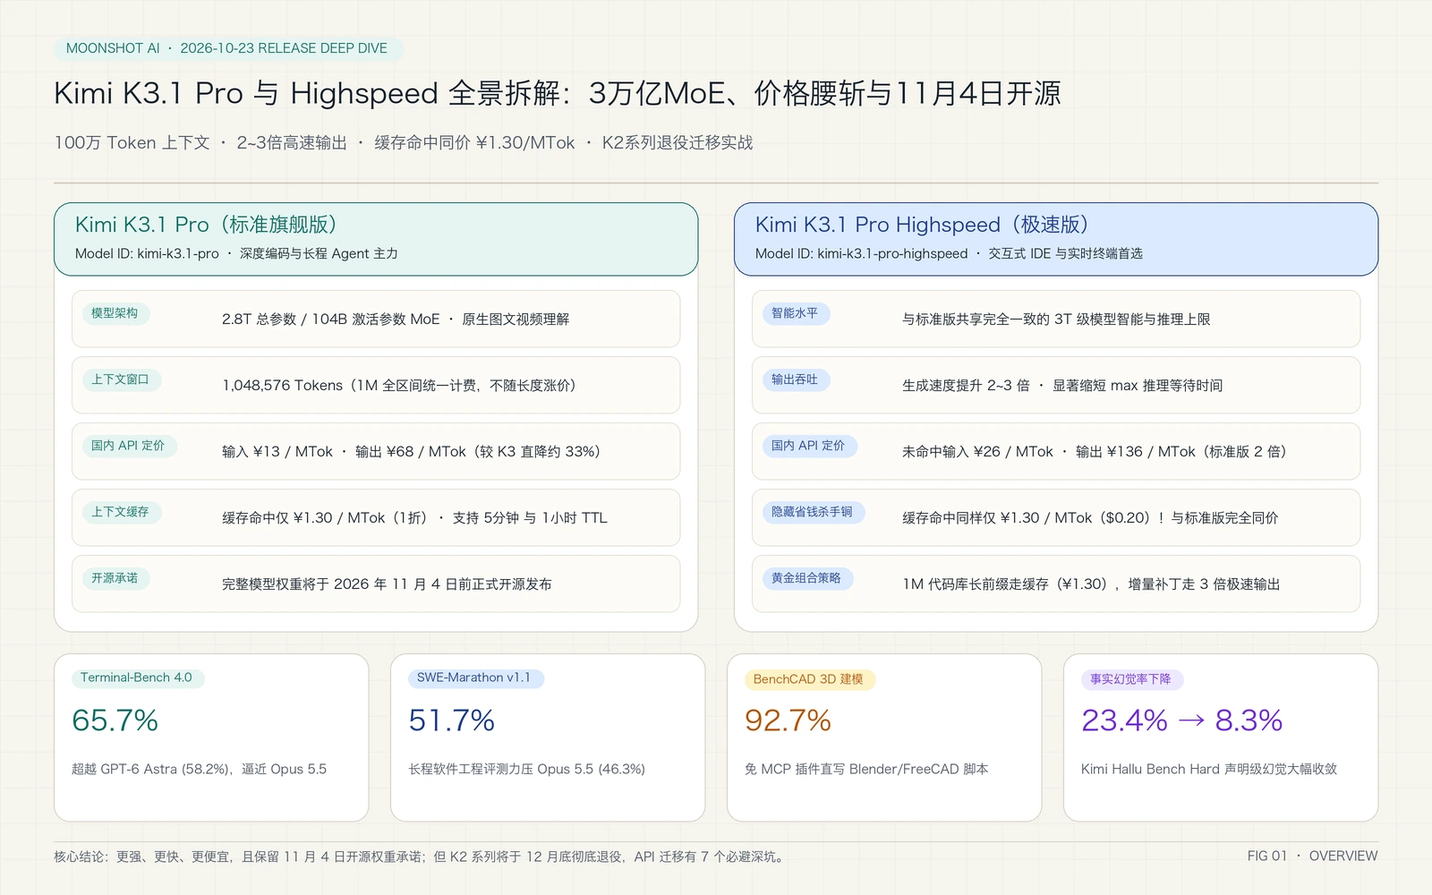
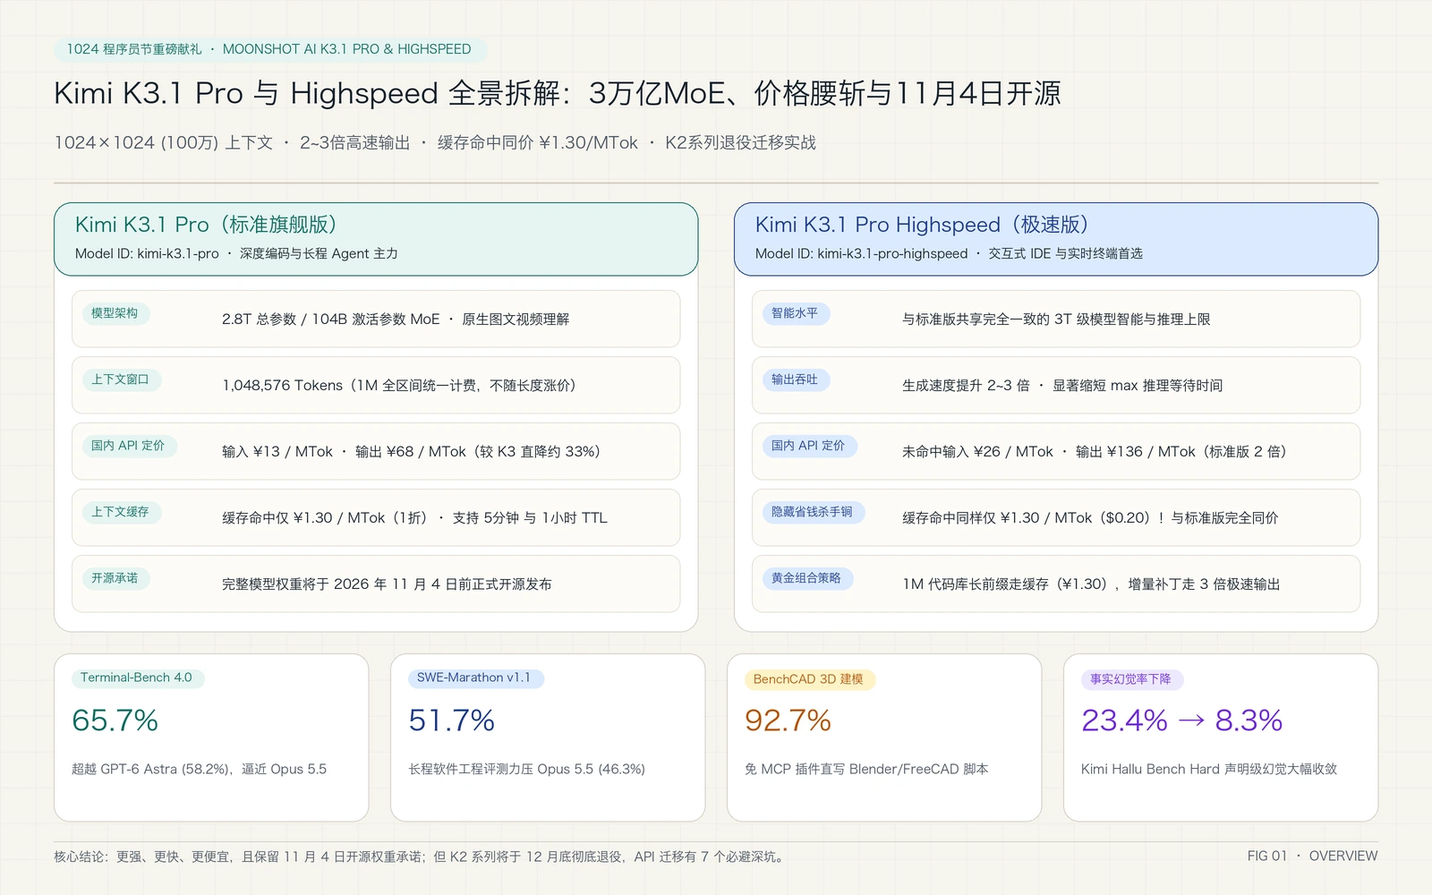
Deploy Hugo site (2026-10-23T23:44:06Z)

Changed region(s): [[0.0625, 0.155, 0.5625, 0.186], [0.0312, 0.031, 0.3438, 0.062]]

diff --git a/en/post/kimi-k3-1-pro-highspeed-open-weights-and-migration-guide/index.html b/en/post/kimi-k3-1-pro-highspeed-open-weights-and-migration-guide/index.html
@@ -3,17 +3,17 @@
 <head>
     <meta charset="utf-8">
     <meta name="viewport" content="width=device-width, initial-scale=1">
-    <title>Kimi K3.1 Pro &amp; Highspeed Unleashed: 3T MoE at a 35% Price Cut, and Why Moonshot Scrubbed 9.5% of Its Cyber Exploit Power Before Open-Sourcing - Margrop Blog</title>
-<meta name="description" content="Late on October 23, 2026, Moonshot AI skipped the theatrics of a livestream countdown and quietly shipped the first model in its new K3.1 generation: kimi-k3.1-pro, a 3-trillion-parameter-class …">
+    <title>A 1024 Programmer&#39;s Day Gift! Kimi K3.1 Pro &amp; Highspeed Unleashed: 3T MoE at a 35% Price Cut, and Why Moonshot Scrubbed 9.5% of Its Cyber Exploit Power - Margrop Blog</title>
+<meta name="description" content="Today is October 24, 2026 — celebrated across the tech world as 1024 Programmer’s Day (since $2^{10} = 1024$, the fundamental binary building block of computing). Right before midnight on the eve of …">
 <meta name="robots" content="index, follow">
 <link rel="canonical" href="https://blog.margrop.net/en/post/kimi-k3-1-pro-highspeed-open-weights-and-migration-guide/"><meta property="og:site_name" content="Margrop Blog">
-<meta property="og:title" content="Kimi K3.1 Pro &amp; Highspeed Unleashed: 3T MoE at a 35% Price Cut, and Why Moonshot Scrubbed 9.5% of Its Cyber Exploit Power Before Open-Sourcing - Margrop Blog">
-<meta property="og:description" content="Late on October 23, 2026, Moonshot AI skipped the theatrics of a livestream countdown and quietly shipped the first model in its new K3.1 generation: kimi-k3.1-pro, a 3-trillion-parameter-class …">
+<meta property="og:title" content="A 1024 Programmer&#39;s Day Gift! Kimi K3.1 Pro &amp; Highspeed Unleashed: 3T MoE at a 35% Price Cut, and Why Moonshot Scrubbed 9.5% of Its Cyber Exploit Power - Margrop Blog">
+<meta property="og:description" content="Today is October 24, 2026 — celebrated across the tech world as 1024 Programmer’s Day (since $2^{10} = 1024$, the fundamental binary building block of computing). Right before midnight on the eve of …">
 <meta property="og:url" content="https://blog.margrop.net/en/post/kimi-k3-1-pro-highspeed-open-weights-and-migration-guide/">
 <meta property="og:locale" content="en_US"><meta property="og:type" content="article"><meta property="og:locale:alternate" content="zh_CN"><meta property="og:image" content="https://blog.margrop.net/images/og-default.png"><meta name="twitter:card" content="summary_large_image">
-<meta name="twitter:title" content="Kimi K3.1 Pro &amp; Highspeed Unleashed: 3T MoE at a 35% Price Cut, and Why Moonshot Scrubbed 9.5% of Its Cyber Exploit Power Before Open-Sourcing - Margrop Blog">
-<meta name="twitter:description" content="Late on October 23, 2026, Moonshot AI skipped the theatrics of a livestream countdown and quietly shipped the first model in its new K3.1 generation: kimi-k3.1-pro, a 3-trillion-parameter-class …"><meta name="twitter:image" content="https://blog.margrop.net/images/og-default.png"><link rel="alternate" hreflang="zh-CN" href="https://blog.margrop.net/post/kimi-k3-1-pro-highspeed-open-weights-and-migration-guide/"><link rel="alternate" hreflang="en-US" href="https://blog.margrop.net/en/post/kimi-k3-1-pro-highspeed-open-weights-and-migration-guide/"><link rel="alternate" hreflang="x-default" href="https://blog.margrop.net/"><meta property="article:published_time" content="2026-10-24T07:00:00&#43;08:00">
-<meta property="article:modified_time" content="2026-10-24T07:00:00&#43;08:00"><meta property="article:tag" content="AI"><meta property="article:tag" content="大模型"><meta property="article:tag" content="LLM"><meta property="article:tag" content="Kimi"><meta property="article:tag" content="月之暗面"><meta property="article:tag" content="Moonshot AI"><meta property="article:tag" content="Kimi-K3.1-Pro"><meta property="article:tag" content="推理模型"><meta property="article:tag" content="Reasoning Model"><meta property="article:tag" content="智能体"><meta property="article:tag" content="Agent"><meta property="article:tag" content="编码模型"><meta property="article:tag" content="Coding Model"><meta property="article:tag" content="开源模型"><meta property="article:tag" content="Open Source"><meta property="article:tag" content="性能评测"><meta property="article:tag" content="Benchmark"><meta property="article:tag" content="自动化"><meta property="article:tag" content="Automation"><meta property="article:tag" content="Windows 11"><meta property="article:tag" content="Ubuntu 26.04"><meta property="article:tag" content="macOS 27"><script type="application/ld+json">{"@context":"https://schema.org","@type":"BlogPosting","author":{"@type":"Person","name":"Margrop"},"dateModified":"2026-10-24T07:00:00+08:00","datePublished":"2026-10-24T07:00:00+08:00","description":"Late on October 23, 2026, Moonshot AI skipped the theatrics of a livestream countdown and quietly shipped the first model in its new K3.1 generation: kimi-k3.1-pro, a 3-trillion-parameter-class …","headline":"Kimi K3.1 Pro \u0026 Highspeed Unleashed: 3T MoE at a 35% Price Cut, and Why Moonshot Scrubbed 9.5% of Its Cyber Exploit Power Before Open-Sourcing","image":"https://blog.margrop.net/images/og-default.png","inLanguage":"en-US","mainEntityOfPage":"https://blog.margrop.net/en/post/kimi-k3-1-pro-highspeed-open-weights-and-migration-guide/","url":"https://blog.margrop.net/en/post/kimi-k3-1-pro-highspeed-open-weights-and-migration-guide/"}</script>
+<meta name="twitter:title" content="A 1024 Programmer&#39;s Day Gift! Kimi K3.1 Pro &amp; Highspeed Unleashed: 3T MoE at a 35% Price Cut, and Why Moonshot Scrubbed 9.5% of Its Cyber Exploit Power - Margrop Blog">
+<meta name="twitter:description" content="Today is October 24, 2026 — celebrated across the tech world as 1024 Programmer’s Day (since $2^{10} = 1024$, the fundamental binary building block of computing). Right before midnight on the eve of …"><meta name="twitter:image" content="https://blog.margrop.net/images/og-default.png"><link rel="alternate" hreflang="zh-CN" href="https://blog.margrop.net/post/kimi-k3-1-pro-highspeed-open-weights-and-migration-guide/"><link rel="alternate" hreflang="en-US" href="https://blog.margrop.net/en/post/kimi-k3-1-pro-highspeed-open-weights-and-migration-guide/"><link rel="alternate" hreflang="x-default" href="https://blog.margrop.net/"><meta property="article:published_time" content="2026-10-24T07:00:00&#43;08:00">
+<meta property="article:modified_time" content="2026-10-24T07:00:00&#43;08:00"><meta property="article:tag" content="AI"><meta property="article:tag" content="大模型"><meta property="article:tag" content="LLM"><meta property="article:tag" content="Kimi"><meta property="article:tag" content="月之暗面"><meta property="article:tag" content="Moonshot AI"><meta property="article:tag" content="Kimi-K3.1-Pro"><meta property="article:tag" content="推理模型"><meta property="article:tag" content="Reasoning Model"><meta property="article:tag" content="智能体"><meta property="article:tag" content="Agent"><meta property="article:tag" content="编码模型"><meta property="article:tag" content="Coding Model"><meta property="article:tag" content="开源模型"><meta property="article:tag" content="Open Source"><meta property="article:tag" content="性能评测"><meta property="article:tag" content="Benchmark"><meta property="article:tag" content="自动化"><meta property="article:tag" content="Automation"><meta property="article:tag" content="Windows 11"><meta property="article:tag" content="Ubuntu 26.04"><meta property="article:tag" content="macOS 27"><script type="application/ld+json">{"@context":"https://schema.org","@type":"BlogPosting","author":{"@type":"Person","name":"Margrop"},"dateModified":"2026-10-24T07:00:00+08:00","datePublished":"2026-10-24T07:00:00+08:00","description":"Today is October 24, 2026 — celebrated across the tech world as 1024 Programmer’s Day (since $2^{10} = 1024$, the fundamental binary building block of computing). Right before midnight on the eve of …","headline":"A 1024 Programmer's Day Gift! Kimi K3.1 Pro \u0026 Highspeed Unleashed: 3T MoE at a 35% Price Cut, and Why Moonshot Scrubbed 9.5% of Its Cyber Exploit Power","image":"https://blog.margrop.net/images/og-default.png","inLanguage":"en-US","mainEntityOfPage":"https://blog.margrop.net/en/post/kimi-k3-1-pro-highspeed-open-weights-and-migration-guide/","url":"https://blog.margrop.net/en/post/kimi-k3-1-pro-highspeed-open-weights-and-migration-guide/"}</script>
     <meta name="baidu-site-verification" content="code-sVFZ8SER59" />
     <script src="/js/theme-toggle.js"></script>
 
@@ -214,7 +214,7 @@
 
     
     <article>
-        <h1>Kimi K3.1 Pro &amp; Highspeed Unleashed: 3T MoE at a 35% Price Cut, and Why Moonshot Scrubbed 9.5% of Its Cyber Exploit Power Before Open-Sourcing</h1>
+        <h1>A 1024 Programmer&#39;s Day Gift! Kimi K3.1 Pro &amp; Highspeed Unleashed: 3T MoE at a 35% Price Cut, and Why Moonshot Scrubbed 9.5% of Its Cyber Exploit Power</h1>
         <div class="meta">
             Published: 2026-10-24
             <span class="meta-separator">·</span>
@@ -271,16 +271,17 @@
 
 
         <div class="content">
-            <p>Late on October 23, 2026, Moonshot AI skipped the theatrics of a livestream countdown and quietly shipped the first model in its new K3.1 generation: <code>kimi-k3.1-pro</code>, a 3-trillion-parameter-class Mixture-of-Experts (MoE) flagship, alongside <code>kimi-k3.1-pro-highspeed</code>, an identical-intelligence turbo tier streaming tokens at 2 to 3 times the speed.</p>
+            <p>Today is October 24, 2026 — celebrated across the tech world as 1024 Programmer&rsquo;s Day (since $2^{10} = 1024$, the fundamental binary building block of computing). Right before midnight on the eve of 1024 Programmer&rsquo;s Day (October 23), Moonshot AI skipped the theatrics of a livestream countdown and dropped a massive holiday gift for developers worldwide: <code>kimi-k3.1-pro</code>, the first 3-trillion-parameter-class Mixture-of-Experts (MoE) flagship in the K3.1 series, alongside <code>kimi-k3.1-pro-highspeed</code>, an identical-intelligence turbo tier streaming tokens at 2 to 3 times the speed.</p>
+<p>There is even a geeky binary Easter egg baked right into the spec sheet: Kimi K3.1 Pro&rsquo;s context window is set to exactly <code>1,048,576</code> tokens — which is <code>1024 × 1024</code> ($2^{20}$)! Celebrating 1024 Programmer&rsquo;s Day with a <code>1024 × 1024</code> context window model feels almost poetic.</p>
 <p><img src="/post-images/kimi-k3-1-pro-highspeed-open-weights-and-migration-guide/01-cover-en.webp" alt="Kimi K3.1 Pro &amp; Highspeed Full Overview Card" width="1600" height="1000" fetchpriority="high" decoding="async"></p>
-<p>If you live inside terminal coding agents like Claude Code, OpenAI Codex CLI, or custom multi-step agent harnesses, four counter-intuitive facts from this release deserve your immediate attention:</p>
+<p>If you live inside terminal coding agents like Claude Code, OpenAI Codex CLI, or custom multi-step agent harnesses, four counter-intuitive facts from this 1024 Programmer&rsquo;s Day release deserve your immediate attention:</p>
 <ol>
-<li>Despite scaling to 2.8 trillion total parameters (104 billion active parameters per token) with a flat 1,048,576-token (1M) context window, API pricing is roughly 33% to 35% cheaper than its predecessor <code>kimi-k3</code> (<code>$2.00/MTok</code> input and <code>$10.00/MTok</code> output globally; <code>¥13/MTok</code> input and <code>¥68/MTok</code> output in China).</li>
+<li>Despite scaling to 2.8 trillion total parameters (104 billion active parameters per token) with a flat <code>1024 × 1024</code> (<code>1,048,576</code>) token context window, API pricing is roughly 33% to 35% cheaper than its predecessor <code>kimi-k3</code> (<code>$2.00/MTok</code> input and <code>$10.00/MTok</code> output globally; <code>¥13/MTok</code> input and <code>¥68/MTok</code> output in China).</li>
 <li>While <code>kimi-k3.1-pro-highspeed</code> charges 2x for uncached input and output (<code>$4.00/MTok</code> and <code>$20.00/MTok</code>), its Context Cache Hit rate is <code>$0.20/MTok</code> (<code>¥1.30/MTok</code>) — the exact same price as Standard Pro. With a properly pinned prefix cache, your 500K-token repository context costs the exact same pennies while your diffs stream back 3x faster.</li>
 <li>Moonshot pledged to release the full open model weights by November 4, 2026. Even more remarkably, the technical report revealed that during reinforcement learning (RL) scaling, internal checkpoints hit an astonishing <code>90.5%</code> pass@3 rate on <code>xdev-bench-hard</code> (real-world vulnerabilities in the Linux kernel, Node.js, JavaScriptCore, Exim, and VirGL). To avoid handing automated zero-day exploit capabilities to anyone with a GPU cluster on November 4, Moonshot deliberately scrubbed cyber-offensive training data from mid-training and RL environments, bringing the final model to <code>81.0%</code>.</li>
-<li>Alongside the launch comes an official sunset schedule for the legacy K2 family: <code>kimi-k2.6</code>, <code>kimi-k2.7-code</code>, and <code>kimi-k2-thinking</code> stop accepting new users on October 31, 2026 and retire completely at the end of December 2026. Yet developers who naively replaced <code>&quot;kimi-k2.6&quot;</code> with <code>&quot;kimi-k3.1-pro&quot;</code> in their codebases last night were greeted by a wall of <code>HTTP 400 Bad Request</code> errors, 0% cache hit rates, and broken subagent loops.</li>
+<li>Alongside this 1024 gift comes an official sunset schedule for the legacy K2 family: <code>kimi-k2.6</code>, <code>kimi-k2.7-code</code>, and <code>kimi-k2-thinking</code> stop accepting new users on October 31, 2026 and retire completely at the end of December 2026. Yet developers who naively replaced <code>&quot;kimi-k2.6&quot;</code> with <code>&quot;kimi-k3.1-pro&quot;</code> in their codebases last night were greeted by a wall of <code>HTTP 400 Bad Request</code> errors, 0% cache hit rates, and broken subagent loops — threatening to turn 1024 Programmer&rsquo;s Day into an unplanned debugging night.</li>
 </ol>
-<p>In this deep dive, we will unpack the engineering breakthroughs behind Kimi K3.1 Pro and Highspeed, explain the hardest concepts using plain-English everyday analogies, diagnose all seven root causes of K2-to-K3.1 migration failures, and hand you a zero-dependency one-click automation script for Windows 11, Ubuntu 26.04, and macOS 27 (supporting both manual execution and AI Agent auto-configuration).</p>
+<p>In this 1024 Programmer&rsquo;s Day deep dive, we will unpack the engineering breakthroughs behind Kimi K3.1 Pro and Highspeed, explain the hardest concepts using plain-English everyday analogies, diagnose all seven root causes of K2-to-K3.1 migration failures, and hand you a zero-dependency one-click automation script for Windows 11, Ubuntu 26.04, and macOS 27 (supporting both manual execution and AI Agent auto-configuration).</p>
 <hr>
 <h2 id="1-background-why-kimi-k31-pro-is-far-more-than-a-minor-point-release">1. Background: Why Kimi K3.1 Pro Is Far More Than a Minor Point Release</h2>
 <p>Over the past six months, software engineers have grown understandably skeptical of minor version bumps. Plenty of models climb multiple-choice leaderboards yet fall apart on step 40 of a real-world debugging loop — blindly guessing three-line patches when a test fails, hallucinating financial numbers, or forgetting constraints buried 200K tokens earlier.</p>
@@ -547,6 +548,10 @@ On the domestic China platform (<code>platform.kimi.com</code>), the complimenta
 </ol>
 <h3 id="q4-how-urgent-is-the-migration-off-kimi-k2-models">Q4: How urgent is the migration off Kimi K2 models?</h3>
 <p>Moonshot&rsquo;s official deprecation notice states that the K2 family (<code>kimi-k2.6</code>, <code>kimi-k2.7-code</code>, <code>kimi-k2-thinking</code>) stops onboarding new users on October 31, 2026 and will be decommissioned at the end of December 2026. Running the <code>--scan-dir</code> audit script across your repositories today ensures a smooth transition well ahead of the December cutoff — while immediately unlocking a 33%+ cost reduction and a massive jump in long-horizon agent reliability.</p>
+<hr>
+<h2 id="closing-thoughts-happy-1024-programmers-day--let-scripts-handle-the-boilerplate">Closing Thoughts: Happy 1024 Programmer&rsquo;s Day — Let Scripts Handle the Boilerplate</h2>
+<p>Every October 24, developers joke about plaid shirts, espresso shots, and never-ending bug queues. Yet having <code>kimi-k3.1-pro</code> and <code>kimi-k3.1-pro-highspeed</code> land right on 1024 Programmer&rsquo;s Day — complete with a <code>1024 × 1024</code> (<code>1,048,576</code>) token context window, an RL agent smart enough to write open-loop dynamics probes to catch 36 simulator bugs across 296 bones, and a commitment to ship full open weights by November 4 — marks a genuine milestone in how we build software.</p>
+<p>Happy 1024 Programmer&rsquo;s Day! May every request hit the <code>$0.20/MTok</code> (<code>¥1.30/MTok</code>) context cache, may none of your subagents throw <code>HTTP 400</code>, and may our one-click scripts get you out of the terminal early today.</p>
 
         </div>
     </article>
@@ -563,7 +568,7 @@ On the domestic China platform (<code>platform.kimi.com</code>), the complimenta
 
 
 <section aria-label="Comments" style="margin-top:40px"
-  data-gitalk-id="post-a16fc133744fde4670eff52463c1deb9c4ea5ce7" data-gitalk-title="Kimi K3.1 Pro &amp; Highspeed Unleashed: 3T MoE at a 35% Price Cut, and Why Moonshot Scrubbed 9.5% of Its Cyber Exploit Power Before Open-Sourcing" data-gitalk-url="https://blog.margrop.net/en/post/kimi-k3-1-pro-highspeed-open-weights-and-migration-guide/">
+  data-gitalk-id="post-a16fc133744fde4670eff52463c1deb9c4ea5ce7" data-gitalk-title="A 1024 Programmer&#39;s Day Gift! Kimi K3.1 Pro &amp; Highspeed Unleashed: 3T MoE at a 35% Price Cut, and Why Moonshot Scrubbed 9.5% of Its Cyber Exploit Power" data-gitalk-url="https://blog.margrop.net/en/post/kimi-k3-1-pro-highspeed-open-weights-and-migration-guide/">
   <h2>Comments</h2>
   <p>Sign in with GitHub to comment. Chinese and English versions share the same discussion.
     <a href="https://github.com/margrop/margropcomment.margrop.io/issues?q=is%3Aissue&#43;label%3AGitalk&#43;label%3A%22post-a16fc133744fde4670eff52463c1deb9c4ea5ce7%22" target="_blank" rel="noopener noreferrer">Discuss on GitHub</a>

diff --git a/en/index.html b/en/index.html
@@ -264,7 +264,7 @@
     <div class="section-heading"><div><p class="eyebrow">FIELD NOTES</p><h2>Recent Posts</h2></div><a href="/en/post/">All Posts →</a></div>
     <ul class="post-list">
     
-        <li><span class="date">2026-10-24</span><a href="/en/post/kimi-k3-1-pro-highspeed-open-weights-and-migration-guide/">Kimi K3.1 Pro &amp; Highspeed Unleashed: 3T MoE at a 35% Price Cut, and Why Moonshot Scrubbed 9.5% of Its Cyber Exploit Power Before Open-Sourcing</a>
+        <li><span class="date">2026-10-24</span><a href="/en/post/kimi-k3-1-pro-highspeed-open-weights-and-migration-guide/">A 1024 Programmer&#39;s Day Gift! Kimi K3.1 Pro &amp; Highspeed Unleashed: 3T MoE at a 35% Price Cut, and Why Moonshot Scrubbed 9.5% of Its Cyber Exploit Power</a>
 <div class="tags">
     
     <a href="/en/tag/ai/"><span class="tag">AI</span></a>

diff --git a/index.html b/index.html
@@ -264,7 +264,7 @@
     <div class="section-heading"><div><p class="eyebrow">FIELD NOTES</p><h2>最近记录</h2></div><a href="/post/">全部文章 →</a></div>
     <ul class="post-list">
     
-        <li><span class="date">2026-10-24</span><a href="/post/kimi-k3-1-pro-highspeed-open-weights-and-migration-guide/">Kimi K3.1 Pro 与 Highspeed 突袭发布：3万亿参数砍价三分之一，官方为何在开源前连夜“自废”9.5%的黑客功力？</a>
+        <li><span class="date">2026-10-24</span><a href="/post/kimi-k3-1-pro-highspeed-open-weights-and-migration-guide/">1024程序员节硬核大礼！Kimi K3.1 Pro 与 Highspeed 突袭发布：3万亿参数砍价三分之一，官方为何在开源前连夜“自废”9.5%的黑客功力？</a>
 <div class="tags">
     
     <a href="/tag/ai/"><span class="tag">AI</span></a>

diff --git a/post/index.html b/post/index.html
@@ -230,7 +230,7 @@
     
         <li>
             <span class="date">10-24</span>
-            <a href="/post/kimi-k3-1-pro-highspeed-open-weights-and-migration-guide/">Kimi K3.1 Pro 与 Highspeed 突袭发布：3万亿参数砍价三分之一，官方为何在开源前连夜“自废”9.5%的黑客功力？</a>
+            <a href="/post/kimi-k3-1-pro-highspeed-open-weights-and-migration-guide/">1024程序员节硬核大礼！Kimi K3.1 Pro 与 Highspeed 突袭发布：3万亿参数砍价三分之一，官方为何在开源前连夜“自废”9.5%的黑客功力？</a>
             
 <div class="tags">
     

diff --git a/tag/agent/index.html b/tag/agent/index.html
@@ -217,7 +217,7 @@
     
         <li>
             <span class="date">2026-10-24</span>
-            <a href="/post/kimi-k3-1-pro-highspeed-open-weights-and-migration-guide/">Kimi K3.1 Pro 与 Highspeed 突袭发布：3万亿参数砍价三分之一，官方为何在开源前连夜“自废”9.5%的黑客功力？</a>
+            <a href="/post/kimi-k3-1-pro-highspeed-open-weights-and-migration-guide/">1024程序员节硬核大礼！Kimi K3.1 Pro 与 Highspeed 突袭发布：3万亿参数砍价三分之一，官方为何在开源前连夜“自废”9.5%的黑客功力？</a>
         </li>
     
         <li>

diff --git a/tag/ai/index.html b/tag/ai/index.html
@@ -217,7 +217,7 @@
     
         <li>
             <span class="date">2026-10-24</span>
-            <a href="/post/kimi-k3-1-pro-highspeed-open-weights-and-migration-guide/">Kimi K3.1 Pro 与 Highspeed 突袭发布：3万亿参数砍价三分之一，官方为何在开源前连夜“自废”9.5%的黑客功力？</a>
+            <a href="/post/kimi-k3-1-pro-highspeed-open-weights-and-migration-guide/">1024程序员节硬核大礼！Kimi K3.1 Pro 与 Highspeed 突袭发布：3万亿参数砍价三分之一，官方为何在开源前连夜“自废”9.5%的黑客功力？</a>
         </li>
     
         <li>

diff --git a/tag/automation/index.html b/tag/automation/index.html
@@ -217,7 +217,7 @@
     
         <li>
             <span class="date">2026-10-24</span>
-            <a href="/post/kimi-k3-1-pro-highspeed-open-weights-and-migration-guide/">Kimi K3.1 Pro 与 Highspeed 突袭发布：3万亿参数砍价三分之一，官方为何在开源前连夜“自废”9.5%的黑客功力？</a>
+            <a href="/post/kimi-k3-1-pro-highspeed-open-weights-and-migration-guide/">1024程序员节硬核大礼！Kimi K3.1 Pro 与 Highspeed 突袭发布：3万亿参数砍价三分之一，官方为何在开源前连夜“自废”9.5%的黑客功力？</a>
         </li>
     
         <li>

diff --git a/tag/benchmark/index.html b/tag/benchmark/index.html
@@ -217,7 +217,7 @@
     
         <li>
             <span class="date">2026-10-24</span>
-            <a href="/post/kimi-k3-1-pro-highspeed-open-weights-and-migration-guide/">Kimi K3.1 Pro 与 Highspeed 突袭发布：3万亿参数砍价三分之一，官方为何在开源前连夜“自废”9.5%的黑客功力？</a>
+            <a href="/post/kimi-k3-1-pro-highspeed-open-weights-and-migration-guide/">1024程序员节硬核大礼！Kimi K3.1 Pro 与 Highspeed 突袭发布：3万亿参数砍价三分之一，官方为何在开源前连夜“自废”9.5%的黑客功力？</a>
         </li>
     
         <li>

diff --git a/tag/coding-model/index.html b/tag/coding-model/index.html
@@ -217,7 +217,7 @@
     
         <li>
             <span class="date">2026-10-24</span>
-            <a href="/post/kimi-k3-1-pro-highspeed-open-weights-and-migration-guide/">Kimi K3.1 Pro 与 Highspeed 突袭发布：3万亿参数砍价三分之一，官方为何在开源前连夜“自废”9.5%的黑客功力？</a>
+            <a href="/post/kimi-k3-1-pro-highspeed-open-weights-and-migration-guide/">1024程序员节硬核大礼！Kimi K3.1 Pro 与 Highspeed 突袭发布：3万亿参数砍价三分之一，官方为何在开源前连夜“自废”9.5%的黑客功力？</a>
         </li>
     
         <li>

diff --git a/tag/kimi/index.html b/tag/kimi/index.html
@@ -217,7 +217,7 @@
     
         <li>
             <span class="date">2026-10-24</span>
-            <a href="/post/kimi-k3-1-pro-highspeed-open-weights-and-migration-guide/">Kimi K3.1 Pro 与 Highspeed 突袭发布：3万亿参数砍价三分之一，官方为何在开源前连夜“自废”9.5%的黑客功力？</a>
+            <a href="/post/kimi-k3-1-pro-highspeed-open-weights-and-migration-guide/">1024程序员节硬核大礼！Kimi K3.1 Pro 与 Highspeed 突袭发布：3万亿参数砍价三分之一，官方为何在开源前连夜“自废”9.5%的黑客功力？</a>
         </li>
     
         <li>

diff --git a/tag/llm/index.html b/tag/llm/index.html
@@ -217,7 +217,7 @@
     
         <li>
             <span class="date">2026-10-24</span>
-            <a href="/post/kimi-k3-1-pro-highspeed-open-weights-and-migration-guide/">Kimi K3.1 Pro 与 Highspeed 突袭发布：3万亿参数砍价三分之一，官方为何在开源前连夜“自废”9.5%的黑客功力？</a>
+            <a href="/post/kimi-k3-1-pro-highspeed-open-weights-and-migration-guide/">1024程序员节硬核大礼！Kimi K3.1 Pro 与 Highspeed 突袭发布：3万亿参数砍价三分之一，官方为何在开源前连夜“自废”9.5%的黑客功力？</a>
         </li>
     
         <li>
